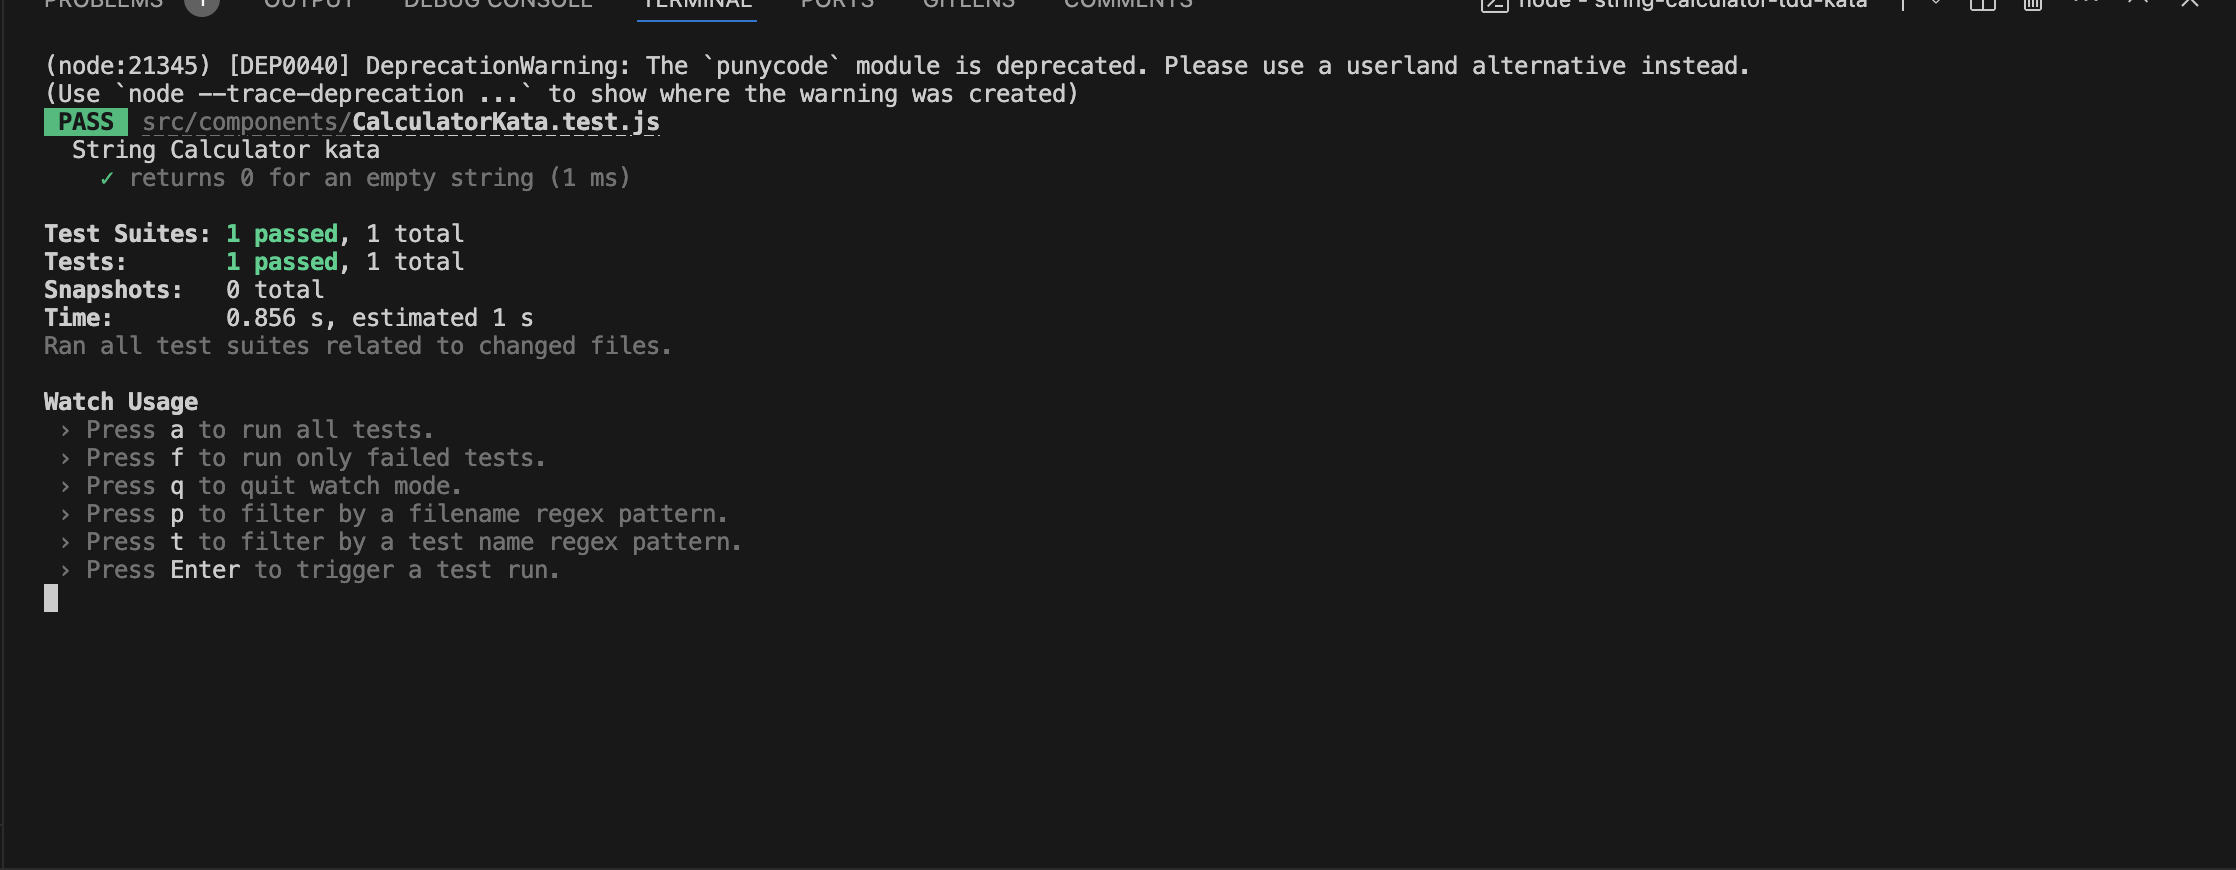
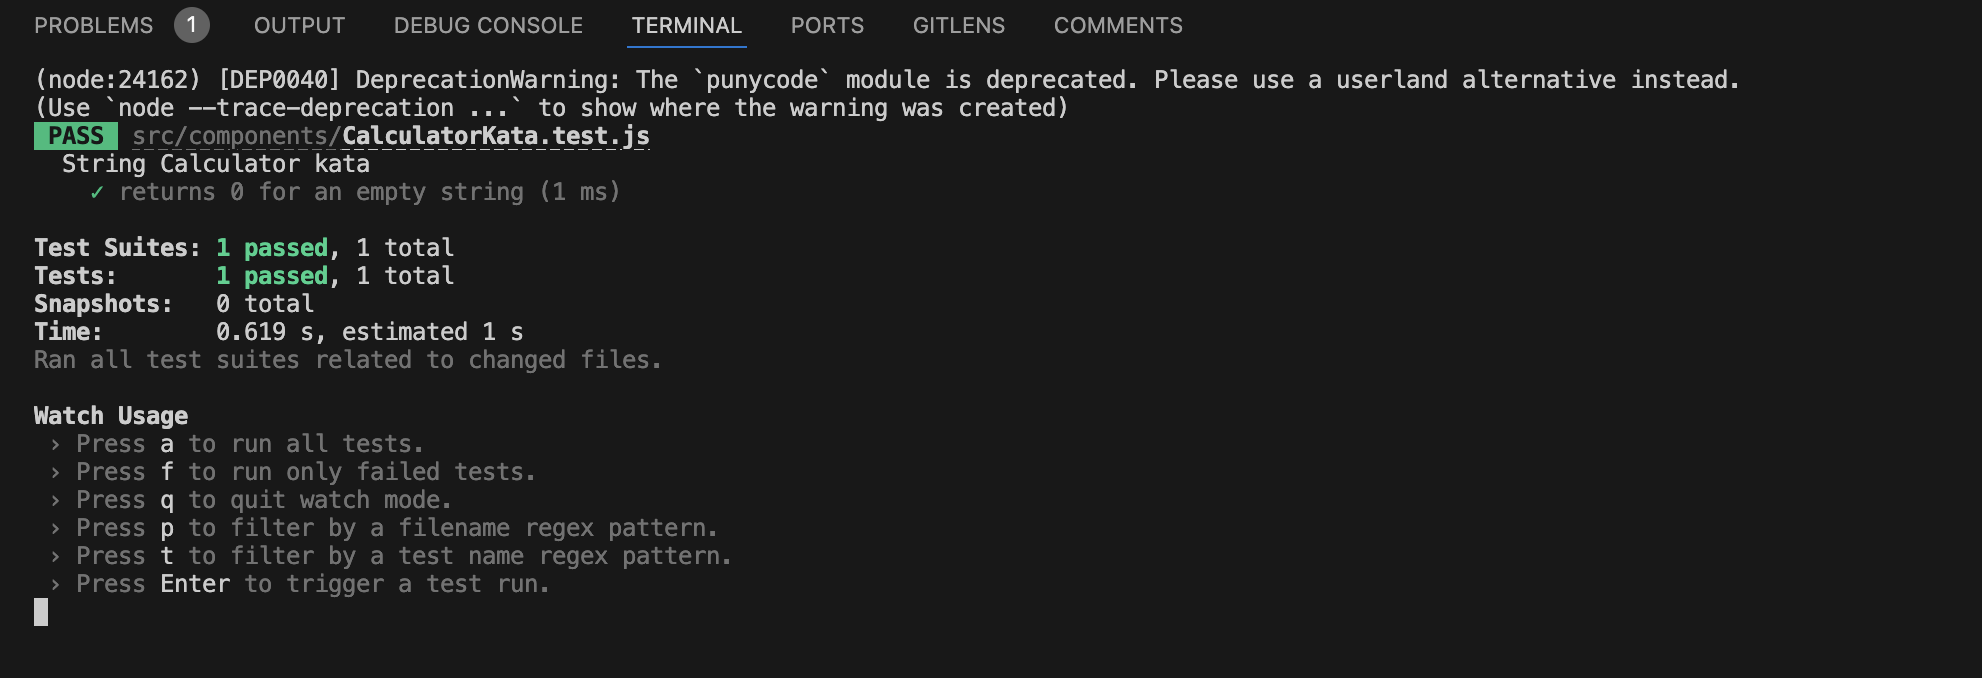
Test_2_Failed: returns the number itself if only one number is provided

Changed region(s): [[0.0, 0.0, 0.8925, 0.8982], [0.6463, 0.0, 0.831, 0.031], [0.0, 0.8673, 0.0308, 0.9292]]

diff --git a/src/components/CalculatorKata.test.js b/src/components/CalculatorKata.test.js
@@ -4,4 +4,7 @@ describe('String Calculator kata', () => {
     it('returns 0 for an empty string', () => {
       expect(addString('')).toBe(0);
     });
+    it('returns the number itself if only one number is provided', () => {
+      expect(addString('1')).toBe(1);
+    });
   })
